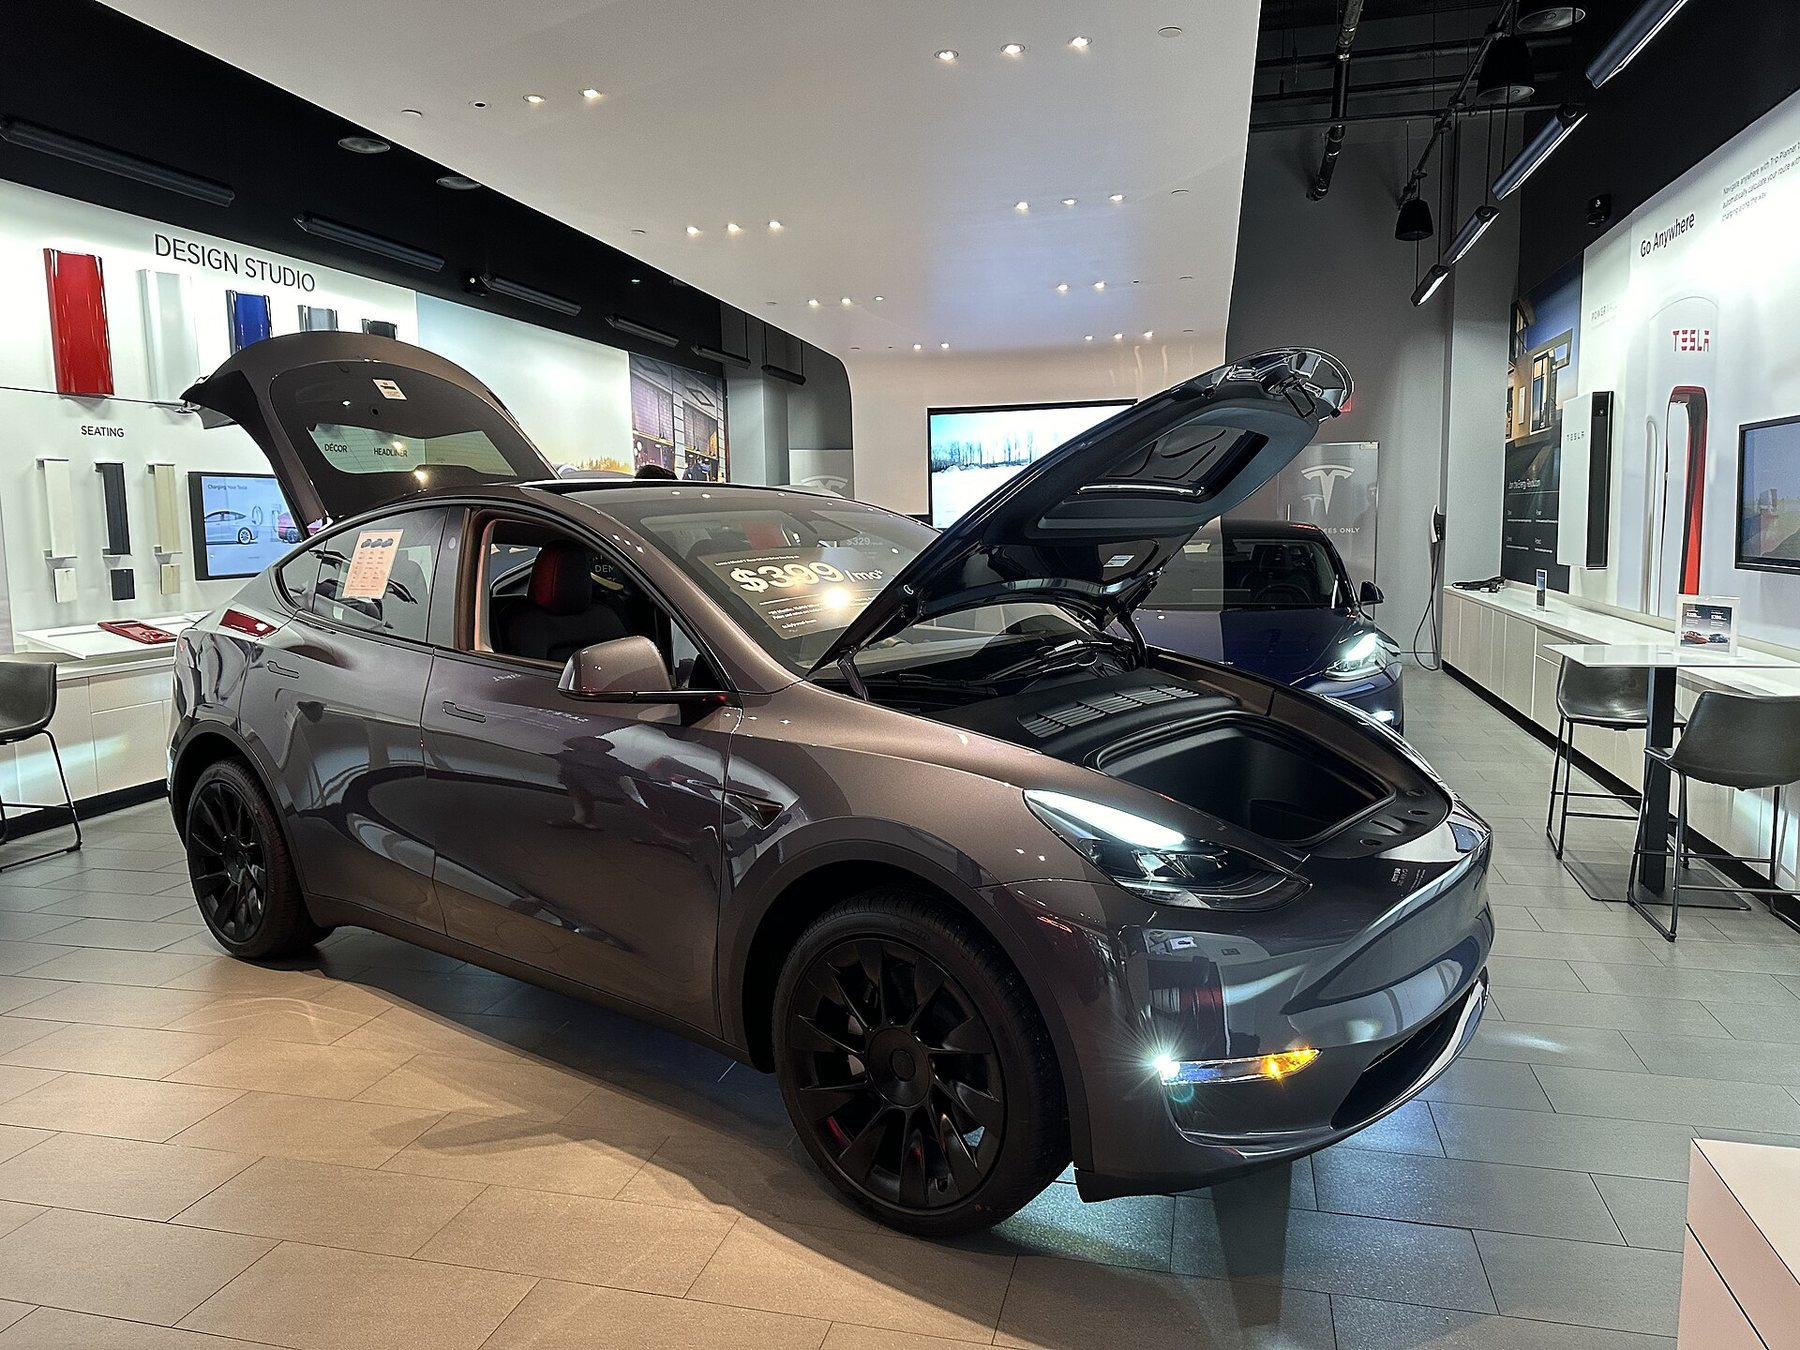
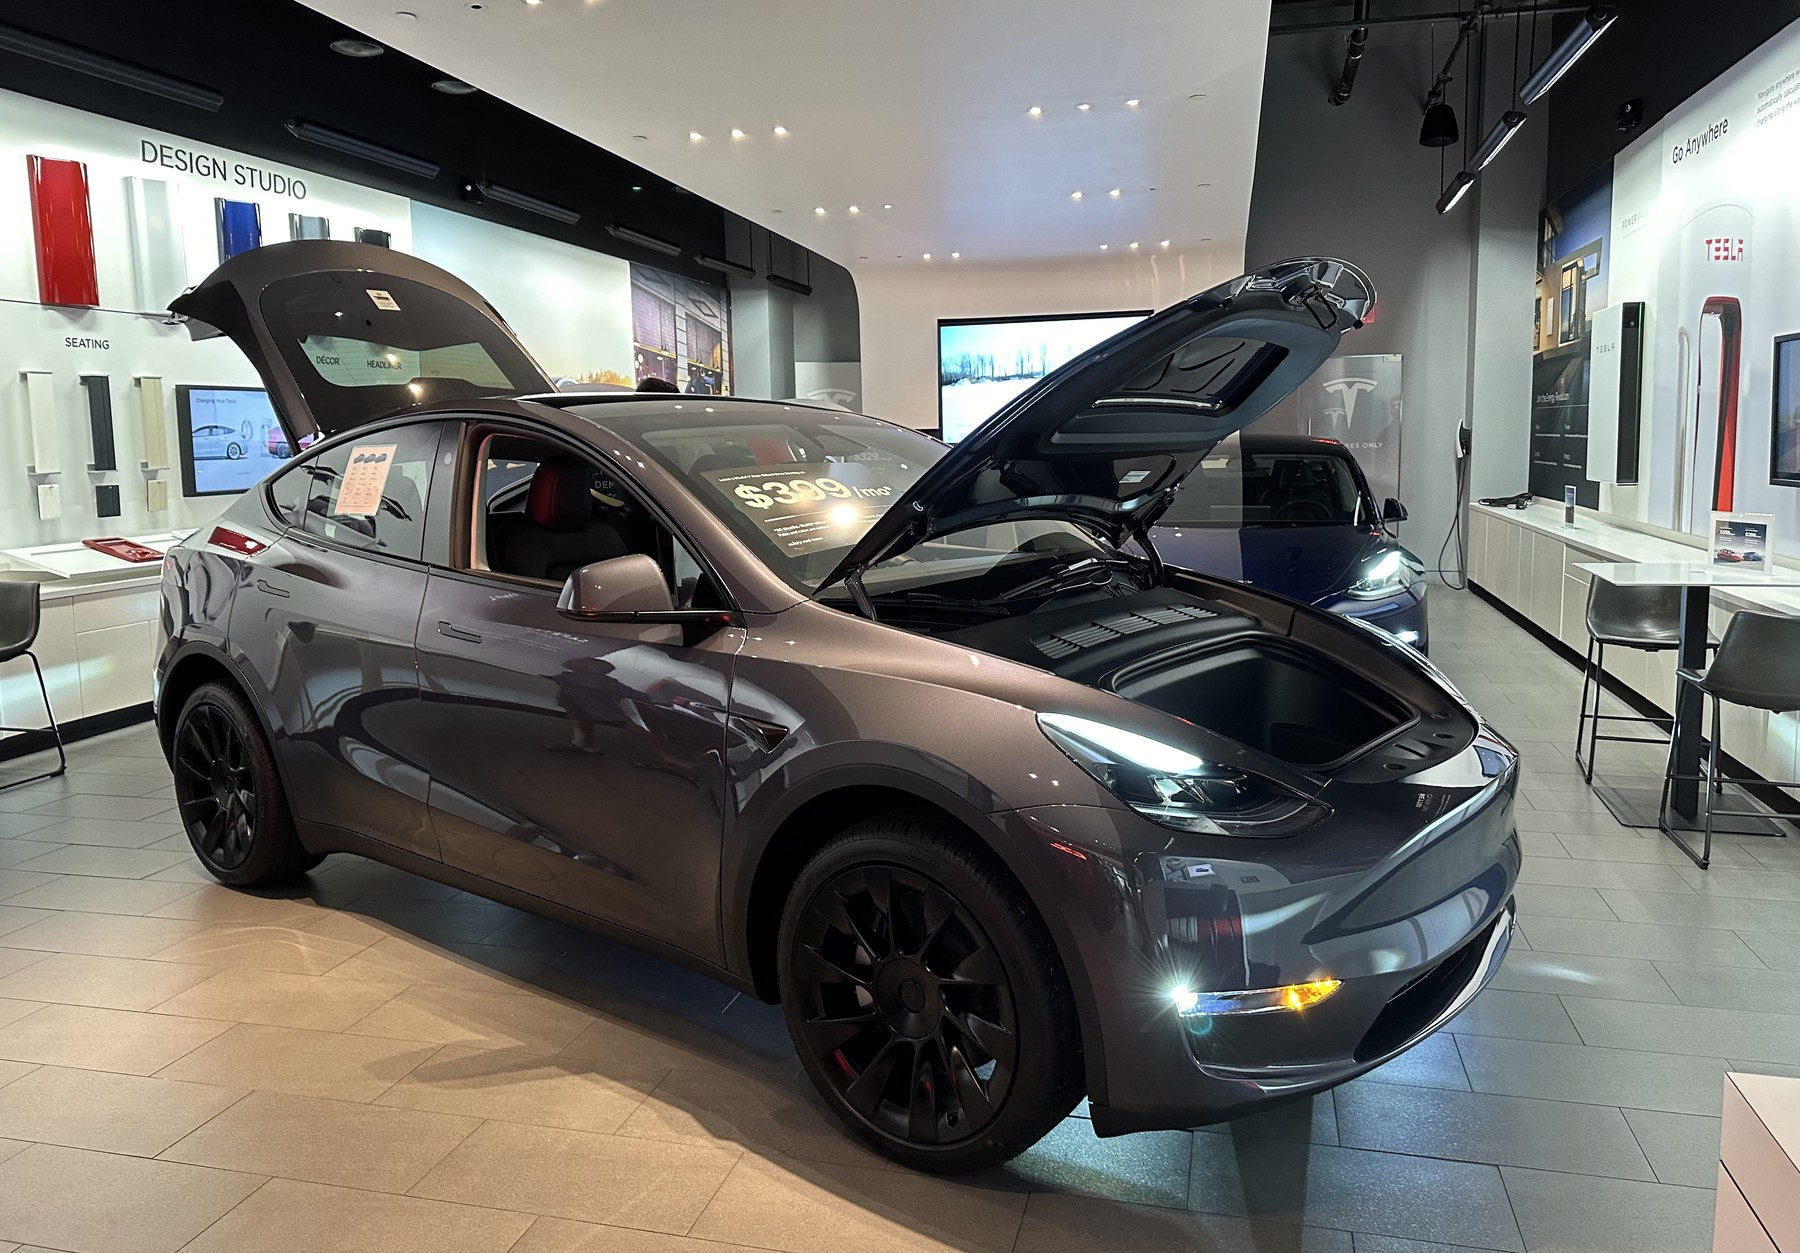
Replace closed trunk stills with open-hatch photographs
Model Y Trunk now uses Phillip Pessar Dadeland crops with the
liftgate raised. Cybercab closed display-unit rears are removed;
no license-clear open cargo well was found.

diff --git a/src/data/inspectViews.ts b/src/data/inspectViews.ts
@@ -31,16 +31,19 @@ export const cabinStills: Record<VehicleType, Still[]> = {
 };
 
 export const trunkStills: Record<VehicleType, Still[]> = {
-  cybercab: [
-    { src: "/inspect/cybercab/trunk-01.jpg", note: "The rear hatch. Production units open this onto a durable cargo well." },
-    { src: "/inspect/cybercab/trunk-02.jpg", note: "Hatch at the back of the two-seater — bags go here, not in a lounge." },
-    { src: "/inspect/cybercab/trunk-03.jpg", note: "Doors up, hatch at the tail. An interior trunk camera watches the well." },
-  ],
+  // No license-clear open-hatch Cybercab photograph exists on Commons / Flickr CC.
+  // Closed display-unit rears were removed — a closed tail is not a trunk inspect.
+  cybercab: [],
   "model-y": [
-    { src: "/inspect/model-y/trunk-01.jpg", note: "Hatch and frunk open — conventional cargo, not a sedan slit." },
-    { src: "/inspect/model-y/trunk-02.jpg", note: "White Juniper with the liftgate up. Groceries, strollers, park bags." },
-    { src: "/inspect/model-y/trunk-03.jpg", note: "The hatch from the street. Power liftgate, glass roof to the tail." },
+    { src: "/inspect/model-y/trunk-01.jpg", note: "Liftgate up — cargo well behind the rear bench, not a sedan slit." },
+    { src: "/inspect/model-y/trunk-02.jpg", note: "Hatch raised on the grey Y. Groceries, strollers, park bags go here." },
+    { src: "/inspect/model-y/trunk-03.jpg", note: "Power liftgate open onto the cargo floor and parcel shelf." },
   ],
+};
+
+export const trunkEmptyNote: Partial<Record<VehicleType, string>> = {
+  cybercab:
+    "No license-clear open-hatch photograph is on file. Production wells are a durable cargo floor behind the two seats, watched by an interior trunk camera.",
 };
 
 export const modePlaque: Record<InspectMode, string> = {

diff --git a/src/components/StillViewer.tsx b/src/components/StillViewer.tsx
@@ -164,7 +164,9 @@ export default function StillViewer({ stills, plaque, cover, className = "" }: P
               <img ref={imgB} src={frames[1] ?? frames[0]} alt="" draggable={false} />
             </>
           ) : (
-            <div className="viewer-fallback" />
+            <div className="viewer-fallback still-empty">
+              <p>{plaque}</p>
+            </div>
           )}
         </div>
         {frames.length > 1 && (
@@ -180,16 +182,20 @@ export default function StillViewer({ stills, plaque, cover, className = "" }: P
             </button>
           </div>
         )}
-        <div className="viewer-zoom" role="group" aria-label="Zoom">
-          <button type="button" aria-label="Zoom out" onClick={() => applyZoom(zoom.current / 1.18)}>
-            −
-          </button>
-          <span>{Math.round(zoomUi * 100)}%</span>
-          <button type="button" aria-label="Zoom in" onClick={() => applyZoom(zoom.current * 1.18)}>
-            +
-          </button>
-        </div>
-        <p className="viewer-hint">{note}</p>
+        {frames.length > 0 && (
+          <>
+            <div className="viewer-zoom" role="group" aria-label="Zoom">
+              <button type="button" aria-label="Zoom out" onClick={() => applyZoom(zoom.current / 1.18)}>
+                −
+              </button>
+              <span>{Math.round(zoomUi * 100)}%</span>
+              <button type="button" aria-label="Zoom in" onClick={() => applyZoom(zoom.current * 1.18)}>
+                +
+              </button>
+            </div>
+            <p className="viewer-hint">{note}</p>
+          </>
+        )}
       </div>
     </Bezel>
   );

diff --git a/src/components/InspectBay.tsx b/src/components/InspectBay.tsx
@@ -1,6 +1,6 @@
 import { lazy, Suspense, useState } from "react";
 import type { Paint, VehicleType } from "../data/fleet";
-import { inspectModes, modePlaque, stillsFor, type InspectMode } from "../data/inspectViews";
+import { inspectModes, modePlaque, stillsFor, trunkEmptyNote, type InspectMode } from "../data/inspectViews";
 
 const VehicleViewer = lazy(() => import("./VehicleViewer"));
 const StillViewer = lazy(() => import("./StillViewer"));
@@ -22,6 +22,10 @@ export default function InspectBay({ type, paint, autoRotate, initialView = "ext
   }
 
   const stills = stillsFor(type, view);
+  const plaque =
+    view === "trunk" && stills.length === 0
+      ? (trunkEmptyNote[type] ?? modePlaque.trunk)
+      : modePlaque[view];
 
   return (
     <div className="inspect-bay">
@@ -45,7 +49,7 @@ export default function InspectBay({ type, paint, autoRotate, initialView = "ext
         ) : (
           <StillViewer
             stills={stills}
-            plaque={modePlaque[view]}
+            plaque={plaque}
             cover={view === "cabin"}
           />
         )}

diff --git a/src/index.css b/src/index.css
@@ -443,6 +443,28 @@ p.lede {
   background: radial-gradient(circle at 50% 40%, #2a1c12, #080605 70%);
 }
 
+.viewer-fallback.still-empty {
+  position: absolute;
+  inset: 0;
+  height: auto;
+  display: flex;
+  align-items: center;
+  justify-content: center;
+  padding: 28px 36px;
+}
+
+.viewer-fallback.still-empty p {
+  margin: 0;
+  max-width: 42ch;
+  text-align: center;
+  font-family: var(--plaque);
+  font-size: 12px;
+  letter-spacing: 0.08em;
+  line-height: 1.55;
+  text-transform: uppercase;
+  color: var(--cream);
+}
+
 .viewer-fallback.tall { height: min(68vh, 680px); }
 
 .chips { display: flex; gap: 8px; margin: 18px 0; }

diff --git a/public/inspect/ATTRIBUTION.md b/public/inspect/ATTRIBUTION.md
@@ -12,15 +12,18 @@ Real vehicles. Not generated interiors.
 
 ## Cybercab trunk / hatch
 
-No license-clear photograph of an open production cargo well was available. These stills are real display-unit photographs of the rear hatch:
+No license-clear photograph of an **open** Cybercab cargo well is on file. Closed display-unit rear shots were removed — a closed tail is not a trunk inspect.
 
-- Rear of the Tesla Cybercab. Photographer **Steve Jurvetson**. CC BY 2.0.
-  https://commons.wikimedia.org/wiki/File:Rear_of_the_Tesla_Cybercab.jpg
-- Stockholm showroom rear three-quarter. Photographer **Ulkl**. Public domain.
-  https://commons.wikimedia.org/wiki/File:CybercabSTHLM2403.jpg
-  and CybercabSTHLM2404
+Search that did not yield a reusable open-hatch frame:
 
-Production units use a durable non-carpeted cargo well behind the two seats, with an interior trunk camera.
+- Wikimedia Commons `Category:Tesla Cybercab` (12 files) plus `Category:Cybercab in Sweden` (Ulkl Stockholm walkaround, 10 files). Hatch is down in every still, including Jurvetson *Rear of the Tesla Cybercab* and Ulkl `CybercabSTHLM2403` / `2404`.
+- Steve Jurvetson’s Flickr tag `cybercab` (7 photos, CC BY 2.0): Front, Rear (closed), Inside, plus people / drones / Optimus. No raised hatch.
+- Commons + Openverse + Flickr CC BY / CC BY-SA / public-domain queries for cybercab / robotaxi + trunk / hatch / cargo / liftgate / open.
+- Event coverage (We, Robot; Santana Row; Stockholm; VivaTech Paris; Berlin; San Francisco June 2026; Petersen prototype). Display units were photographed with the hatch closed.
+
+One real open-hatch photograph exists and is **not** reusable: Perico001 / Peter Bovyn, Brussels Motor Show, January 2025, Flickr `54333697387` — side profile with the rear hatch clearly up, license **All rights reserved**.
+
+Production units open the hatch onto a durable non-carpeted cargo floor behind the two seats, with an interior trunk camera. When a Commons or Flickr CC photograph of that well appears, it should replace this empty set.
 
 ## Model Y cabin
 
@@ -33,8 +36,15 @@ Production units use a durable non-carpeted cargo well behind the two seats, wit
 
 ## Model Y trunk / hatch
 
+Crops of one showroom photograph with the **liftgate raised** and the cargo well visible through the open aperture:
+
 - Tesla showroom, Dadeland Mall, 27 November 2023. Photographer **Phillip Pessar**. CC BY 2.0.
   https://commons.wikimedia.org/wiki/File:Tesla_Showroom_Dadeland_Mall,_27_November_2023_-_Hood_and_trunk_open.jpg
-- Tesla showroom, Dadeland Mall, 9 June 2023. Photographer **Phillip Pessar**. CC BY 2.0.
-  https://commons.wikimedia.org/wiki/File:Tesla_Showroom_Dadeland_Mall,_Miami_Florida_9_June_2023_-_1.jpg
-- Juniper Pearl White rear three-quarter. Photographer **Damian B Oh**. CC BY-SA 4.0.
+  Used for `trunk-01.jpg` (3/4, hatch and well), `trunk-02.jpg` (rear half, hatch up), `trunk-03.jpg` (tight on the raised liftgate).
+
+Not used (hatch down, or the cargo well is not visible):
+
+- Dadeland, 9 June 2023 — 1. Same photographer, CC BY 2.0. Liftgate is up, but the front 3/4 hides the cargo floor.
+- Juniper Pearl White rear three-quarter. Photographer **Damian B Oh**. CC BY-SA 4.0. Closed street tail.
+- Commons `Category:Tesla Model Y` / `Category:Tesla Model Y (2025)` walkarounds (Damian B Oh Quicksilver / Pearl White / Stealth Grey series): closed hatches.
+- Flickr CC BY / CC BY-SA / public-domain search for “Tesla Model Y trunk” returned no additional open-well stills.
